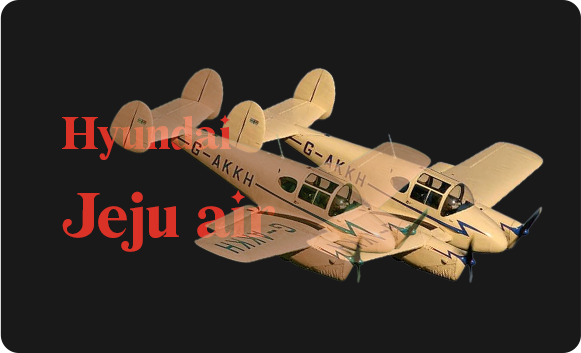
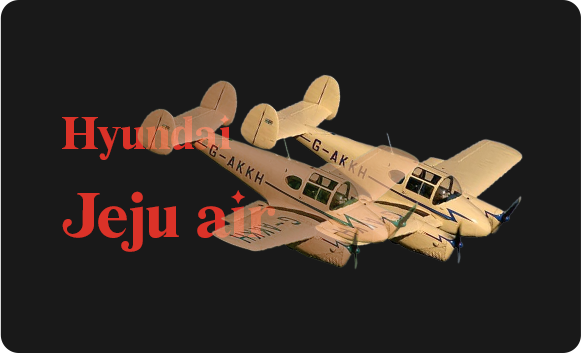
현대면세점 썸네일 이미지 변경 및 MD추천 스와이퍼 추가

Changed region(s): [[0.1859, 0.187, 0.9604, 0.8102]]

diff --git a/src/components/MyTabs.tsx b/src/components/MyTabs.tsx
@@ -89,7 +89,7 @@ const nineCardData: ProjectItem[] = [
     mobileUrl:"https://junheekwon1004.github.io/2025portfolio/projects/hyundai/mko_md_recommendation.html",
     githubUrl: "", 
     imageSrc: hyundaiImg06,
-    tags: ["HTML5", "CSS3", "JavaScript", "jQuery", "Event"],
+    tags: ["HTML5", "CSS3", "JavaScript", "jQuery", "Swiper"],
     contribution: "기여도 100%(퍼블리싱)",
   },
   {
